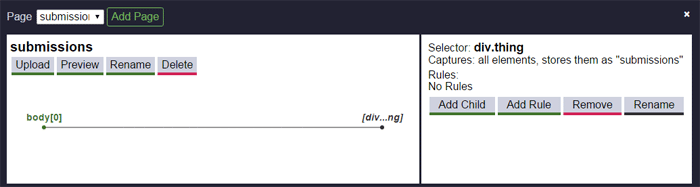
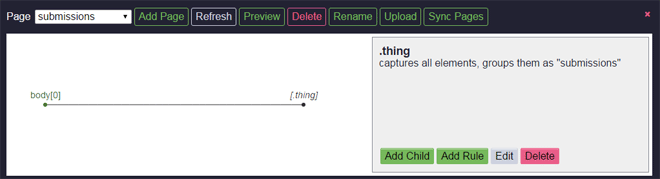
updated tutorial

diff --git a/forager/css/interface.css b/forager/css/interface.css
@@ -377,7 +377,7 @@ body.foraging {
         border-style: inset !important;
         color: #000000 !important; }
     #forager .topbar select {
-      width: 100px;
+      width: 150px;
       min-height: 22px;
       height: 22px;
       border-radius: 2px; }

diff --git a/scss/_topbar.scss b/scss/_topbar.scss
@@ -94,7 +94,7 @@
     }
 
     select{
-        width: 100px;
+        width: 150px;
         min-height: 22px;
         height: 22px;
         border-radius: 2px;

diff --git a/docs/source/tutorial.rst b/docs/source/tutorial.rst
@@ -1,19 +1,19 @@
 Tutorial
 ========
 
-The following tutorial shows how to get a list of submissions on a subreddit homepage on reddit.com. This is purely for demonstration since the `PRAW <https://praw.readthedocs.org/en/v3.1.0/>`_ Python library exists and is much more ideal for accessing data from reddit.
+The following tutorial shows how to get a list of submissions from a subreddit of reddit.com. This is purely for demonstration since the `PRAW <https://praw.readthedocs.org/en/v3.1.0/>`_ Python library exists and is much more ideal for accessing data from reddit.
 
-Click the Forager button to the right of the omnibox to open Forager
+Start by clicking the Forager button to the right of the omnibox to open Forager.
 
 .. image:: img/open.png
 
 
-When opening Forager, you will get an empty interface.
+When opening Forager, no pages will be selected.
 
 Before You Get Started
 ^^^^^^^^^^^^^^^^^^^^^^
 
-One thing to keep in mind is that the page that you're seeing isn't necessarily the page that `Gatherer <https://github.com/pshrmn/gatherer>`_ (the library used to gather data using the rules we are creating) will see. :code:`Gatherer` will be receiving the html of the site as a non-logged in user, as well as having no extensions modifying the page. You should log out and disable any extensions that are running (eg. Reddit Enhancement Suite) if you want to see what :code:`Gatherer` will.
+One thing to keep in mind is that the page that you're seeing isn't necessarily the webpage that `Gatherer <https://github.com/pshrmn/gatherer>`_ (the library used to gather data using the rules we are creating) will see. :code:`Gatherer` will be receiving the html of the site as a non-logged in user, as well as having no extensions modifying the page. When creating a Page you should log out and disable any extensions that are running (eg. Reddit Enhancement Suite) if you want to see what :code:`Gatherer` will.
 
 Create Page
 ^^^^^^^^^^^^
@@ -27,9 +27,11 @@ The first step is to create a new page.
 2. Choose the Page name
 +++++++++++++++++++++++
 
-In the prompt enter a legal page name and click ok. A legal page name does not include these characters:
+In the prompt enter a legal page name and click ok. A legal page name can not include these characters:
 
     < > : " \ / | ? *
+
+This is because they are not allowed in file names by Windows.
 
 The name of the page for this tutorial will be "submissions". Once the name has been entered, click the :code:`OK` button.
 
@@ -39,52 +41,52 @@ You now have a new page, with a base selector on the body element.
 
 .. image:: img/new-page.png
 
-The left box contains controls for the current page and the right box contains controls for the current selector.
+Forager's functionality is broken up into frames, where each frame has a unique purpose. The base frame is the element frame, which allows you to select elements from the tree and manipulate them by adding child elements, adding rules, editing the element, or removing it.
 
-Selectors
+Elements
 ^^^^^^^^^^^^
 
-Pages are made up of a tree of :code:`selectors`. There are two types of selectors:
+Pages are made up of a tree of :code:`elements`. There are two types of elements:
 
-1. Single selectors
+1. Single Elements
 +++++++++++++++++++
 
-These target one specific child element of a parent element which matches the selector. An index integer is stored for single selectors to indicate which child to select when multiple elements match the selector.
+Single :code:`elements` match one specific child of a parent :code:`element`, specifically the one at a provided index. When gathering data, first, an array of all elements matched using the :code:`element`'s selector is found, then the one at the index is selected. Any rule data captured from single :code:`elements` will be merged into the data from its parent.
 
-2. All selectors
+2. All Elements
 ++++++++++++++++
 
-These target all child elements of the parent element that match the selector. A name string is stored for all selectors to indicate the name of the array to store the children's data in.
+All :code:`elements` match all children of the parent elementor that are selected by the :code:`element`'s selector. When gathering data, an array will be returned with each item in the array being the data from the corresponding matched element's rules (and any of its children's rules).
 
 Elements
 ++++++++
 
-When a page is loaded or created, for each selector in the page, an array of elements that match the selector is added to the selector object. This is useful for highlight which elements in the page match a selector as well as figuring out matching elements for an child selectors.
+When a page is loaded or created, for each :code:`element` in the :code:`page`, an array of matches that match the :code:`element` is added to the :code:`elemenet`. This is useful for highlighting which DOM elements in the webpage are selected by an :code:`element`.
 
 
 Add Children
 ^^^^^^^^^^^^
-Now that you have a page, it is time to start adding child selectors.
+Now that you have added a :code:`page`, it is time to start adding child :code:`elements`.
 
-Note: Sometimes a selector does not have any relevant data associated with it, but because of the layout of the page, is required (or more convenient) to more easily target a child selector.
+Note: Sometimes an :code:`element` does not have any relevant data associated with it, but because of the layout of the webpage, it is required (or more convenient) to create it in order to more easily select a child :code:`element`.
 
-Because we are getting a list of submissions, the first selector we want to create is an :code:`All` selector that targets all of the submission elements.
+Because we are getting a list of submissions, the first :code:`element` that we want to create is an :code:`All element` that matches all of the submission elements in the page.
 
 1. Add child
 ++++++++++++
 
-Before you add a child, make sure that the selector you want to use as the parent of the new selector is the current selector. By default, the root "body" selector is selected when creating or loading a page and when you save a new selector, it is set as the current selector. Clicking on a node in the tree will make that node the current selector. When you have the desired selector selected, click the :code:`Add Child` button
+Before you add a child, make sure that the :code:`element` you want to use as the parent of the new :code:`element` is the current :code:`element`. By default, the root "body" :code:`element` is selected when creating or loading a page. When you save a new :code:`element`, it is set as the current :code:`element`. Clicking on a node in the tree will make that node the current :code:`element`. When you have the desired :code:`element` selected, click the :code:`Add Child` button. This will take you to the add element frame, which includes a wizard for creating a new :code:`element`. At any point, you can click the :code:`Cancel` button and you will return to the element frame.
 
 .. image:: img/add-child.png
 
-All elements in the page that can be selected will have an outline and when hovered over will have a light blue background. Images that can be selected will have a dashed outline and hovering over them will set the image's opacity to :code:`0.25`.
+All DOM elements in the page that can be selected will have an outline and when hovered over will have a light blue background. Image elements that can be selected will have a dashed outline and hovering over them will set the image's opacity to :code:`0.25`.
 
 .. image:: img/highlight-children.png
 
 2. Select Element in the Page
 +++++++++++++++++++++++++++++
 
-Click on any outlined elements in the page. Clicking on an element will generate a list of element css selectors, starting with the element you clicked and including all of its parent elements (up to, but not including, the nearest parent element in the current selector's elements array). Each selector is a string of an element's tag, its id (if it has one) and any classes that it has. Which of these parts of the selector we actually want to use will be determined in the next step.
+Click on any outlined DOM elements in the webpage. Clicking on an element will generate a list of element css selectors to choose from, starting with the element you clicked and including all of its parent elements (up to, but not including, the nearest parent element in the current selector's elements array). Each selector is a string of an element's tag, its id (if it has one) and any classes that it has. Which of these parts of the selector we actually want to use will be determined in the next step. A wildcard css selector, :code:`*`, is also provided in case you want to select all children. Also, when you create an :code:`element` that matches :code:`select` elements, an :code:`option` css selector will be provided (because you cannot select this yourself).
 
 .. image:: img/element-choices.png
 
@@ -100,17 +102,17 @@ Example:
         </div>
     </body>
 
-If the current css selector is :code:`body`, clicking on the :code:`a` element will return the :code:`a`, :code:`p`, and :code:`div#main` css selectors.
+If the current :code:`element`'s css selector is :code:`body`, clicking on the :code:`a` element will return the :code:`a`, :code:`p`, and :code:`div#main` css selectors.
 
 
 3. Choose Element
 +++++++++++++++++
 
-Click on the elements in the list to see which elements in the page that each one would select.
+Click on the elements in the list to see which elements in the page each one would select.
 
 .. image:: img/highlight-element.png
 
-The chosen selector does not highlight all of the submissions that we want to capture because it is too specific. In the next form, we will choose the selector parts to match all of the desired elements in the page.
+The chosen css selector does not highlight all of the submissions that we want to capture because it is too specific. In the next form, we will choose the css selector parts to match all of the desired elements in the page.
 
 When you have the selector that matches the desired element(s), click the :code:`Next` button.
 
@@ -123,50 +125,61 @@ By default, all possible parts of the css selector are activated. Click on the v
 
 Once you have chosen the desired selector parts, click the :code:`Next` button.
 
-5. Set the name for the selection
-+++++++++++++++++++++++++++++++++
+5. Choose which Element Type
+++++++++++++++++++++++++++++
 
-On the next page, we will choose which type of selector we are creating. There are radio options for selecting either "single" or "all". The default selector is "all".
+Once you have chosen the selector for the new :code:`element`, you need to choose which type of :code:`element` this is. By default, :code:`single` is selected since most :code:`elements` will be :code:`single elements`. However, for this :code:`element`, since we want to select all submissions in the page, we will be creating an :code:`all element`. Toggling between the types will highlight which elements will be selected by either type. However, in the case of :code:`single elements`, only the first DOM element will be selected since the default :code:`index` for :code:`single elements` is :code:`0`.
 
-For a :code:`single` selector, you need to specify an index.
+.. image:: img/choose-element-type.png
 
-.. image:: img/save-single.png
+Once the desired type is set, click the :code:`Next` button.
 
-For an :code:`all` selector, you need to specify a name. Ideally the name should be plural (since we're selecting multiple elements).
+6. Choose the Element's Value
+++++++++++++++++++++++++++++
 
-.. image:: img/save-all.png
+Because this is an :code:`all element`, we will have to set a name for the array of data that will be created from the matching elements. Since we are matching the submissions in the page, :code:`submissions` is an obvious choice for a name.
 
-Because we are targeting all of the submissions in the page, we will use the "all" radio option, and set a name for all of the data for the each element and its children to be stored under. Once the name has been entered, click the :code:`Save` button.
+.. image:: img/choose-element-name.png
 
-6. The UI will return to the Selector Frame
+If we had instead created a :code:`single element`, we would instead need to choose the appropriate index value for the :code:`element`.
+
+.. image:: img/choose-element-index.png
+
+Once the desired value is set, click the :code:`Next` button.
+
+7. Specify if the Element is Optional
++++++++++++++++++++++++++++++++++++++
+
+Most of the time, the reason that we are creating an :code:`element` is because we want to get some sort of data from it. Occasionally, an element will have data that we want, but a corresponding DOM element will not exist. When gathering data, if an :code:`element` does not have a matching DOM element, the corresponding data object will be omitted. If we don't want this to happen, we can mark an :code:`element` as optional, and its data will just be skipped.
+
+Here, it would not make sense for the :code:`submissions` :code:`element` to be optional because it is the base of our data and without it there are no other :code:`elements` to match, so we will leave it unchecked.
+
+.. image:: img/choose-element-optional.png
+
+Once the desired optional value is set, click the :code:`Next` button.
+
+8. Verify the Element and Save
+++++++++++++++++++++++++++++++
+
+The last step in the wizard is to verify all of the values that you have selected. If you notice that anything is incorrect, you can use the :code:`Previous` buttons to step backwards through the wizard. Otherwise, assuming everything is correct, click the :code:`Save` button. This will save the :code:`element` and return you to the element frame, where your newly created :code:`element` will be selected.
+
+.. image:: img/confirm-element.png
+
+9. Back at the Element Frame
 +++++++++++++++++++++++++++++++++++++++++++
 
-The page tree will be updated now to include the newly selected node. The updated node is bolded because it is the current selector.  It also has brackets around the selector to indicate that it will capture multiple elements and is in red because it is empty (ie. it has neither any child elements nor any attributes).
+The page tree will now be updated to include a node for the newly created :code:`element`. The :code:`element`'s :code:`selector` is used to identify the :code:`element` node. The node for the :code:`element` is bolded because it is the currently selected one. It also has brackets around the selector to indicate that it will capture all elements and is in red because it is empty (ie. it has neither any child elements nor any attributes).
 
 .. image:: img/updated-page.png
 
-All of the elements that match the current selector will have a blue background.
+All of the DOM elements that match the current :code:`element` will have a blue background.
 
-7. Capture children elements
+10. Capture children elements
 ++++++++++++++++++++++++++++
 
-Now that we have the selector to get each submission, we want to get child elements that have the data we would like to collect. Click on the :code:`[div.t....link]` (this is really the div.thing.link node, but long selector names are shortened) node in the tree to make sure that it is the current selector, then click on the :code:`add child` button once again. Now only child elements of the current selector will be outlined in the page.
+Now that we have the :code:`element` to match each submission, we want to create child :code:`elements` that have the data we would like to gather. If it is not the currect element, click on the :code:`[.thing]` node in the tree to make sure that it the current :code:`element`, then click on the :code:`Add Child` button once again. Now only child DOM elements of the current :code:`element` will be outlined in the page.
 
-There are various datum that can be captured from here, such as the submitted title, the submitted url, how many points it has, and a link to the submission's comments.
-
-8. Save index of elements
-+++++++++++++++++++++++++
-
-For selectors where only one element should be targeted, an index is used in case the selector matches multiple elements (per parent element). By default, the 0-index element is selected and generally that will be the correct index. However for some sources you'll want to target a different index. For example, if you want to select the second :code:`td` of a :code:`tr` in a :code:`table`. Changing the index will update the highlights showing which matched element will be selected.
-
-.. image:: img/non-zero-index.png
-
-9. Completed selector tree
-++++++++++++++++++++++++++
-
-You can now iterate over the tree and create all of the selectors for desired information. Remember that when saving a selector, it is set as the current selector, so you will have to click back on the previous parent node when you want to add multiple children to it.
-
-Go ahead and create child selectors to get the title of the submission, the score of the submission, and the link to the submission's comments.
+There are various datum that can be captured from here. Using the steps above, you should now create new :code:`elements` to get the submission's title, its url, how many points it has, and a link to its comments. Remember that when saving a selector, it is set as the current selector, so you will have to click back on the previous parent node when you want to add multiple children to it.
 
 .. image:: img/completed-selectors.png
 
@@ -175,40 +188,59 @@ Now, all of the desired selectors are created, but some of the nodes are still i
 Create Rules
 ^^^^^^^^^^^^
 
+Rules specify what data we want to get from a DOM element. These will either be attributes of the element or the element's text content. Each rule will need a (unique) name and a type (string, int, or float). The type defaults to string and that should be used in most cases. The int and float options are useful for extracting numeric data, but may be too basic for many cases.
+
 1. Create a Rule
 ++++++++++++++++
 
-Here we'll get the current score of the submission. Click on the node in the tree for the score (for me it is :code:`div.title[0]`) to make it the current selector, then click the :code:`Add Rule` button. 
+Here we'll get the current score of the submission. Click on the node in the tree for the score (for me it is :code:`.score[1]]`) to make it the current :code:`element`, then click the :code:`Add Rule` button. This will open the rule wizard which will step you through creating a new rule.
 
 .. image:: img/add-rule.png
 
-2. Choose the name
-++++++++++++++++++
+2. Choose the Attribute
++++++++++++++++++++++++
 
-Give the rule a name. The name should be a simple description of what the value this rule is capturing is. Here we are getting the score of a submission, so the rule should be named :code:`score`.
+The first step in creating a rule is selecting the proper attribute. The :code:`element` will still be shown in the frame so that you can see which rules you have already created. Select the radio element of the attribute that you want to create a rule for. The value of the attribute will be listed below the radio. You may want (or need) to cycle through various elements using the arrow buttons in order to see the attribute values for the different matched DOM eleements.
+
+.. image:: img/choose-rule-attr.png
+
+Once you have selected the desired attribute, click the :code:`Next` button.
 
 3. Choose the type
 ++++++++++++++++++
 
-A rule can specify that the captured value should be either a string, an int, or a float. Int and float types should only be used when you know that the captured value will contain an int or a float. If the type is int or float, and no int or float is found when using :code:`Gatherer` to collect that data, -1 will be returned. Here we are getting the score of a submission, which we expect to be an int, so choose the type :code:`int`.
+A rule can specify that the captured value should be either a string, an int, or a float. Int and float types should only be used when you know that the captured value will contain an int or a float. If the type is int or float, and no int or float is found when using :code:`Gatherer` to collect that data, :code:`None` will be returned. Here we are getting the score of a submission, which we expect to be an int, so choose the type :code:`int`.
 
-4. Choose the attribute
-+++++++++++++++++++++++
+Once you have selected the desired type, click the :code:`Next` button.
 
-Click on the desired attribute in the list of attributes to select which attribute (or the text content) to collect. The left column is the html attribute (or text) that you will capture, and the right column is the value of that attribute for the current element in the page. You can click the :code:`<<` and :code:`>>` buttons at the bottom of the form to cycle through all of the elements that are captured by the current selector.
+.. image:: img/choose-rule-type.png
 
-We want to get the text of the div.
+4. Choose the Name
++++++++++++++++++++
 
-5. Save the Rule
-++++++++++++++++
+Give the rule a name. The name should be a simple description of what the value this rule is capturing is. Here we are getting the score of a submission, so the rule should be named :code:`score`.
 
-Once the name is set, the type is chosen, and the attribute is seletced, click on the :code:`Save` button.
+.. image:: img/choose-rule-name.png
 
-.. image:: img/choose-rule.png
+5. Verify the Rule and Save
+++++++++++++++++++++++++++++
+
+Verify that all of the properties of the rule are correct. You can use the :code:`Previous` button to go back and make any changes. Once everything is set as you desired, click the :code:`Save` button. This will create the rule and return you to the element frame.
+
+.. image:: img/confirm-rule.png
 
 You can create multiple Rules for a selector. This is commonly used for selectors that match :code:`<a>` elements where you want both the :code:`text` of the anchor as well as the :code:`href`
 
 .. image:: img/multiple-rules.png
+
+Preview
+^^^^^^^
+
+At any point in time, you can preview what the data collected by the page will be by clicking the :code:`Preview` button. For simple data collection, you probably won't even need to use gatherer, but instead just copy and paste the preview data. The preview frame also has buttons for logging the data to the developer console. Clicking the :code:`Hide Preview` button will return you to the element frame.
+
+.. image:: img/show-preview.png
+
+.. image:: img/preview.png
 
 Upload
 ^^^^^^
@@ -217,16 +249,16 @@ Once you have created rules for all of the selectors, it is time to upload the p
 
 .. image:: img/completed-page.png
 
-In order to upload, you need to have `Granary <https://github.com/pshrmn/granary>`_ running. Make sure to call the following code in the desired directory to run the granary server.
+In order to upload, you need to have `Granary <https://github.com/pshrmn/granary>`_ running. In the directory where you want the page uploaded to, start up the :code:`Granary` server.
 
 .. code-block:: python
 
     python -m granary.server
 
-Uploading is as simple as clicking the :code:`upload` button.
+Uploading is as simple as clicking the :code:`Upload` button.
 
 .. image:: img/upload.png
 
-As long as the granary is running, the page should be saved as a json file in the :code:`rules/<domain>` folder where the server is running (unless you specify a different location). (:code:`domain` is the hostname of the website the page is created for, except with periods :code:`.` replaced by underscores :code:`_`)
+As long as the :code:`Granary` server is running, the page should be saved as a json file in the :code:`rules/<domain>` folder where the server is running (unless you specify a different location). (:code:`domain` is the hostname of the website the page is created for, except with periods :code:`.` replaced by underscores :code:`_`)
 
 Once you have a page uploaded, it is time to use `Gatherer <https://github.com/pshrmn/gatherer>`_ to collect the data.
